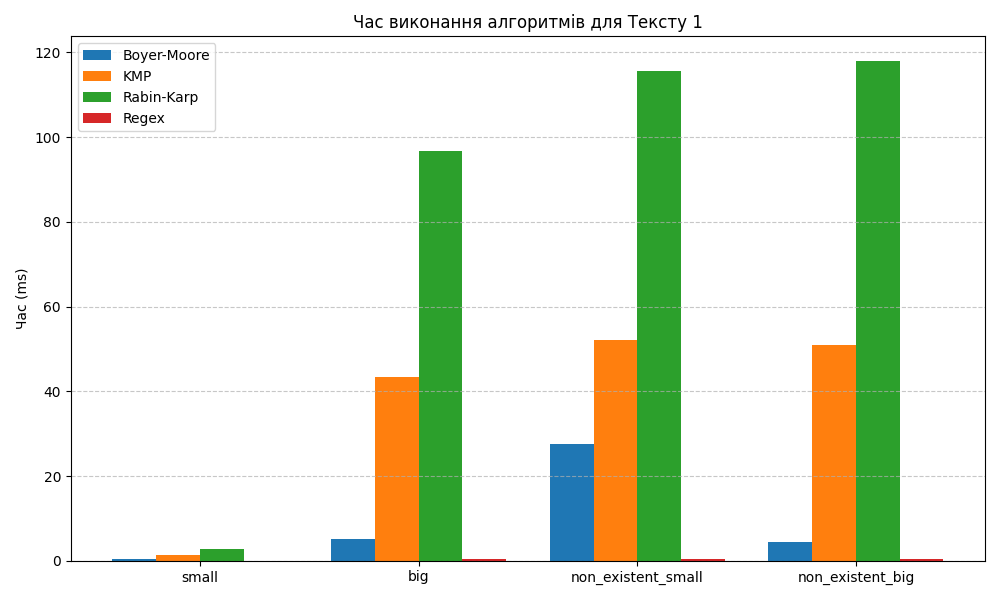
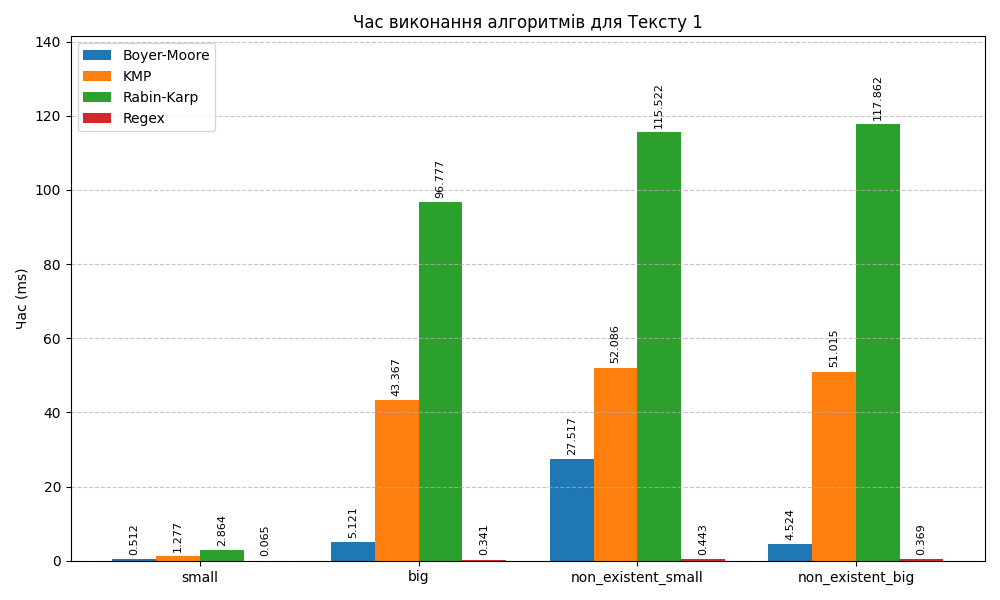
refactor: dynamically plot algorithm performance data with bar labels and update chart data structure.

diff --git a/visualize_results.py b/visualize_results.py
@@ -1,31 +1,44 @@
 import matplotlib.pyplot as plt
 import numpy as np
 
-def create_chart(title, data, filename):
-    labels = list(data.keys())
+def create_chart(title, data, filename, ndigits = 3):
     # data structure: {'sub_type': [BM, KMP, RK, Regex]}
 
     # Transpose data for plotting
     # We want groups by Substring Type
 
     substring_types = list(data.keys()) # ['small', 'big', ...]
-    algorithms = ['Boyer-Moore', 'KMP', 'Rabin-Karp', 'Regex']
 
     x = np.arange(len(substring_types))  # the label locations
     width = 0.2  # the width of the bars
 
     fig, ax = plt.subplots(figsize=(10, 6))
 
-    # Extract values for each algorithm
-    bm_vals = [data[t][0] for t in substring_types]
-    kmp_vals = [data[t][1] for t in substring_types]
-    rk_vals = [data[t][2] for t in substring_types]
-    regex_vals = [data[t][3] for t in substring_types]
+    rects = []
+    values = {}
+    for _, record in data.items():
+        for column_name, value in record.items():
+            if column_name not in values:
+                values[column_name] = []
+            values[column_name].append(value)
 
-    rects1 = ax.bar(x - 1.5*width, bm_vals, width, label='Boyer-Moore')
-    rects2 = ax.bar(x - 0.5*width, kmp_vals, width, label='KMP')
-    rects3 = ax.bar(x + 0.5*width, rk_vals, width, label='Rabin-Karp')
-    rects4 = ax.bar(x + 1.5*width, regex_vals, width, label='Regex')
+    columns = values.keys()
+    for index, column_name in enumerate(columns):
+        rects.append(
+            ax.bar(x + (index - 1.5) * width,
+            values[column_name],
+            width,
+            label=column_name)
+        )
+        ax.bar_label(rects[-1], fmt=f'%.{ndigits}f', padding=3, rotation=90, fontsize=8)
+
+    # Set y-limit slightly higher to accommodate labels
+    all_vals = []
+    for _, record in data.items():
+        for column_name, value in record.items():
+            all_vals.append(value)
+    if all_vals:
+        ax.set_ylim(0, max(all_vals) * 1.2)
 
     # Add some text for labels, title and custom x-axis tick labels, etc.
     ax.set_ylabel('Час (ms)')
@@ -46,20 +59,23 @@ def create_chart(title, data, filename):
 
 if __name__ == "__main__":
     # Data from README.md
-    # [Boyer-Moore, KMP, Rabin-Karp, Regex]
     data_1 = {
-        'small': [0.512, 1.277, 2.864, 0.065],
-        'big': [5.121, 43.367, 96.777, 0.341],
-        'non_existent_small': [27.517, 52.086, 115.522, 0.443],
-        'non_existent_big': [4.524, 51.015, 117.862, 0.369]
+        'small': {'Boyer-Moore': 0.512, 'KMP': 1.277, 'Rabin-Karp': 2.864, 'Regex': 0.065},
+        'big': {'Boyer-Moore': 5.121, 'KMP': 43.367, 'Rabin-Karp': 96.777, 'Regex': 0.341},
+        'non_existent_small': {'Boyer-Moore': 27.517, 'KMP': 52.086,
+            'Rabin-Karp': 115.522, 'Regex': 0.443},
+        'non_existent_big': {'Boyer-Moore': 4.524, 'KMP': 51.015,
+            'Rabin-Karp': 117.862, 'Regex': 0.369}
     }
 
     data_2 = {
-        'small': [0.223, 0.364, 0.754, 0.041],
-        'big': [11.557, 73.802, 165.409, 0.670],
-        'non_existent_small': [20.145, 75.604, 166.065, 0.630],
-        'non_existent_big': [7.189, 72.506, 168.564, 0.504]
+        'small': {'Boyer-Moore': 0.223, 'KMP': 0.364, 'Rabin-Karp': 0.754, 'Regex': 0.041},
+        'big': {'Boyer-Moore': 11.557, 'KMP': 73.802, 'Rabin-Karp': 165.409, 'Regex': 0.670},
+        'non_existent_small': {'Boyer-Moore': 20.145, 'KMP': 75.604,
+            'Rabin-Karp': 166.065, 'Regex': 0.630},
+        'non_existent_big': {'Boyer-Moore': 7.189, 'KMP': 72.506,
+            'Rabin-Karp': 168.564, 'Regex': 0.504}
     }
 
-    create_chart('Час виконання алгоритмів для Тексту 1', data_1, 'results_article_1.png')
-    create_chart('Час виконання алгоритмів для Тексту 2', data_2, 'results_article_2.png')
+    create_chart('Час виконання алгоритмів для Тексту 1', data_1, 'стаття_1_chart.png')
+    create_chart('Час виконання алгоритмів для Тексту 2', data_2, 'стаття_2_chart.png')

diff --git a/03_performance_test.py b/03_performance_test.py
@@ -62,22 +62,16 @@ def run_performance_tests():
     print()
 
     for filename, conf in settings.items():
-        tests = []
-        chart_data = {}
+        tests = {}
         if not conf['text']:
             continue
         for pattern_name, pattern in conf['patterns'].items():
-            result = {}
             for alg_name, alg_func in algorithms.items():
-                if pattern_name not in result:
-                    result[pattern_name] = {}
-                result[pattern_name][alg_name] = measure_time(
+                if pattern_name not in tests:
+                    tests[pattern_name] = {}
+                tests[pattern_name][alg_name] = measure_time(
                             alg_func, conf['text'], pattern, number=number
-                        )
-                if pattern_name not in chart_data:
-                    chart_data[pattern_name] = []
-                chart_data[pattern_name].append(result[pattern_name][alg_name] * 1000)
-            tests.append(result)
+                        ) * 1000
 
         print("\n" + "=" * 81)
         print(f"НАЗВА ФАЙЛУ: {filename}")
@@ -86,16 +80,15 @@ def run_performance_tests():
         for alg_name in algorithms:
             column_names += f"{alg_name: >15}"
         print( f"{'Тип підрядка':<20} {column_names}")
-        for test in tests:
+        for pattern_name, record in tests.items():
             row = ""
-            for pattern_name in test:
-                for alg_name in algorithms:
-                    row += f"{test[pattern_name][alg_name] * 1000: >15.3f}"
+            for alg_name in algorithms:
+                row += f"{record[alg_name]: >15.3f}"
             print(f"{pattern_name:<20} {row}")
 
         create_chart(
             "Загальний час виконання алгоритмів пошуку підрядків",
-            chart_data,
+            tests,
             filename.split(".", maxsplit=1)[0]+"_chart.png"
         )
 
